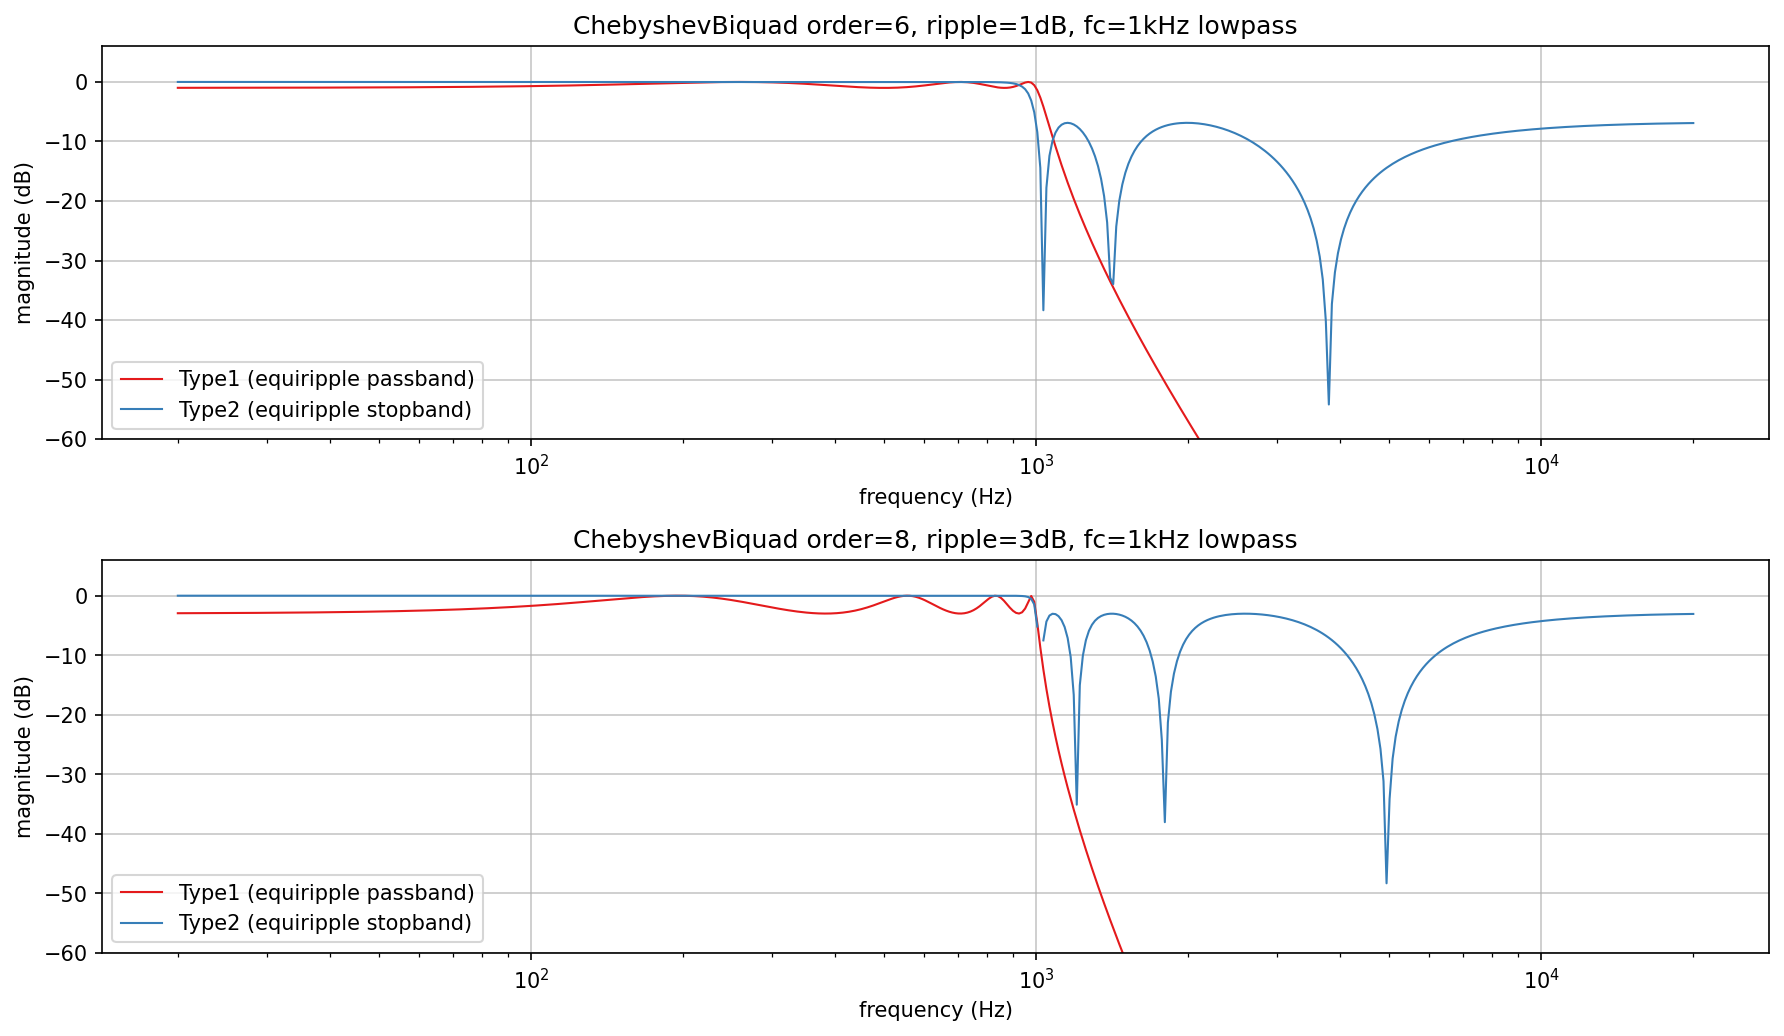
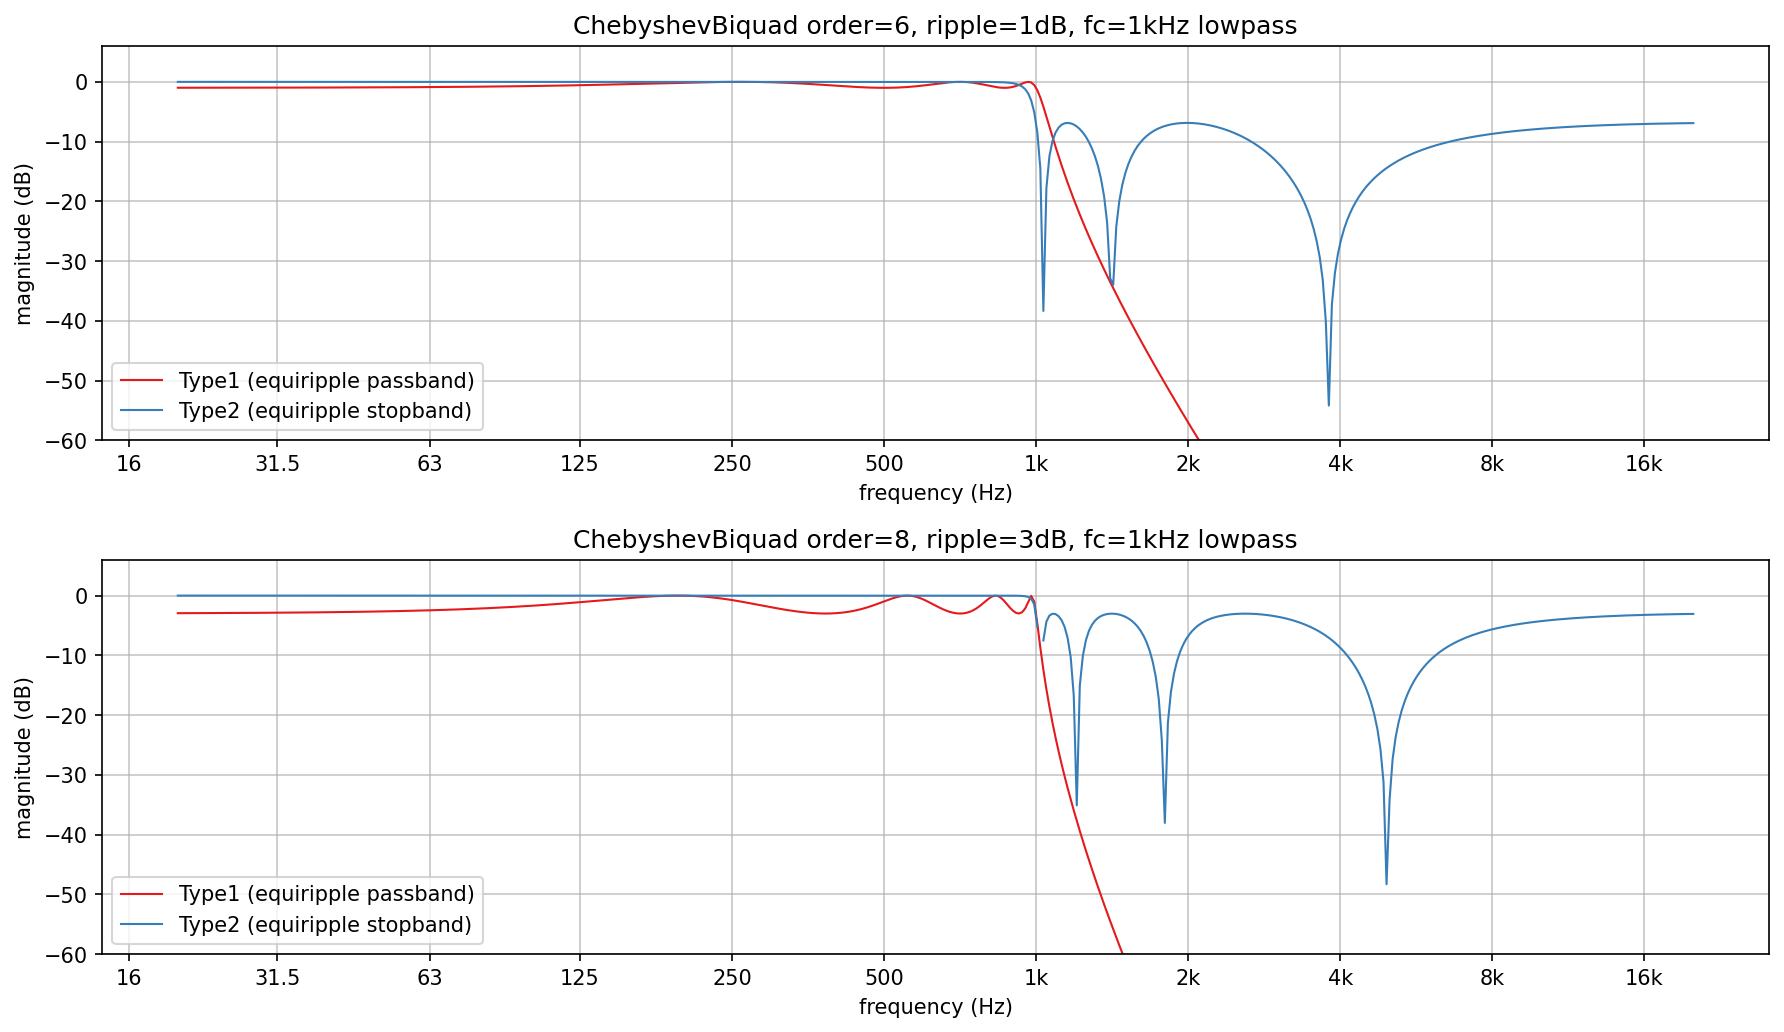
Use octave-spaced Hz labels on the log frequency axes of the filter, modulation and reverb plots

diff --git a/documentation/Filters/PoleMixing/PoleMixingExplore.cpp b/documentation/Filters/PoleMixing/PoleMixingExplore.cpp
@@ -189,7 +189,7 @@ constexpr float kResponseFreqHi = 12000.f;
 
 void writeResponse(std::ofstream& out)
 {
-    out << "@New plot: title=\"magnitude (cutoff=1kHz, resonance=0)\" logx=true\n";
+    out << "@New plot: title=\"magnitude (cutoff=1kHz, resonance=0)\" logx=true hzticks=true\n";
     for (const auto presetName : kRepresentativePresets)
     {
         const auto& cf = AbacDsp::poleMixingList[AbacDsp::findFilterIndex(presetName)].cf;
@@ -202,7 +202,7 @@ void writeResponse(std::ofstream& out)
         }
     }
 
-    out << "@New plot: title=\"phase (cutoff=1kHz, resonance=0)\" logx=true\n";
+    out << "@New plot: title=\"phase (cutoff=1kHz, resonance=0)\" logx=true hzticks=true\n";
     for (const auto presetName : kRepresentativePresets)
     {
         const auto& cf = AbacDsp::poleMixingList[AbacDsp::findFilterIndex(presetName)].cf;
@@ -247,9 +247,9 @@ void writeResonanceSweep(std::ofstream& out, const std::string_view presetName)
 
 void writeResonance(std::ofstream& out)
 {
-    out << "@New plot: title=\"LP4 approaching self-oscillation\" logx=true\n";
+    out << "@New plot: title=\"LP4 approaching self-oscillation\" logx=true hzticks=true\n";
     writeResonanceSweep(out, "LP4");
-    out << "@New plot: title=\"BP4 approaching self-oscillation\" logx=true\n";
+    out << "@New plot: title=\"BP4 approaching self-oscillation\" logx=true hzticks=true\n";
     writeResonanceSweep(out, "BP4");
 
     out << "@New plot: title=\"LP4 self-oscillation (single impulse, zero input after)\"\n#envelope\n";
@@ -267,7 +267,7 @@ void writeResonance(std::ofstream& out)
 
 void writeOverdriveSpectra(std::ofstream& out, const std::string_view title)
 {
-    out << "@New plot: title=\"" << title << " spectrum vs. input level\" logx=true\n";
+    out << "@New plot: title=\"" << title << " spectrum vs. input level\" logx=true hzticks=true\n";
     for (const float amplitude : {0.05f, 0.5f, 2.f})
     {
         AbacDsp::Lp24Smooth filter(kSampleRate);
@@ -289,7 +289,7 @@ void writeOverdriveSpectra(std::ofstream& out, const std::string_view title)
 void writeOverdriveSpectraBandpass(std::ofstream& out, const std::string_view title)
 {
     const auto& cf = AbacDsp::poleMixingList[AbacDsp::findFilterIndex("LP4")].cf;
-    out << "@New plot: title=\"" << title << " spectrum vs. input level\" logx=true\n";
+    out << "@New plot: title=\"" << title << " spectrum vs. input level\" logx=true hzticks=true\n";
     for (const float amplitude : {0.05f, 0.5f, 2.f})
     {
         AbacDsp::Filter1Pole4StageSmooth filter(kSampleRate);
@@ -389,7 +389,7 @@ void writeCutoffAccuracy(std::ofstream& out)
 {
     const float thirdSemitone = std::pow(2.f, 1.f / 36.f); // 36 steps/octave: a musical, not arbitrary, grid
 
-    out << "@New plot: title=\"resonant-peak frequency vs. requested cutoff\" logx=true logy=true\n";
+    out << "@New plot: title=\"resonant-peak frequency vs. requested cutoff\" logx=true hzticks=true logy=true\n";
     writeCutoffAccuracySweep(out, geometricSweep(100.f, 12000.f, thirdSemitone));
 
     out << "@New plot: title=\"resonant-peak frequency vs. requested cutoff (zoom: 1000-12000 Hz)\"\n";
@@ -576,13 +576,13 @@ void writeTopologySelfOscillation(std::ofstream& out)
 
 void writeTopology(std::ofstream& out)
 {
-    out << "@New plot: title=\"LP4 resonance peak: classic vs bandpass-tap feedback\" logx=true\n";
+    out << "@New plot: title=\"LP4 resonance peak: classic vs bandpass-tap feedback\" logx=true hzticks=true\n";
     writeTopologyPairForPreset<AbacDsp::Lp24Smooth>(out, "LP4");
 
     out << "@New plot: title=\"self-oscillation: classic vs bandpass-tap feedback (LP4)\"\n";
     writeTopologySelfOscillation(out);
 
-    out << "@New plot: title=\"LP4/HP4/BP4, classic vs bandpass-tap, near self-oscillation\" logx=true\n";
+    out << "@New plot: title=\"LP4/HP4/BP4, classic vs bandpass-tap, near self-oscillation\" logx=true hzticks=true\n";
     writeTopologyPairForPreset<AbacDsp::Lp24Smooth>(out, "LP4");
     writeTopologyPairForPreset<AbacDsp::Hp24Smooth>(out, "HP4");
     writeTopologyPairForPreset<AbacDsp::Bp24Smooth>(out, "BP4");

diff --git a/documentation/Filters/BandpassImpulses/BpImpulseExplore.cpp b/documentation/Filters/BandpassImpulses/BpImpulseExplore.cpp
@@ -244,14 +244,14 @@ void writeResponse(std::ofstream& out)
 
     AbacDsp::SvfResoBP svf{sampleRate};
     svf.setByDecay(0, f0, decay);
-    out << "@New plot: title=\"SvfResoBP magnitude (f0=1kHz, decay=100ms)\" logx=true\n";
+    out << "@New plot: title=\"SvfResoBP magnitude (f0=1kHz, decay=100ms)\" logx=true hzticks=true\n";
     writeNormalizedSweep(
         out, "SvfResoBP", kSamples, loHz, hiHz, [&svf] { svf.reset(); },
         [&svf](const float in) { return svf.step(in); });
 
     AbacDsp::BiquadResoBP biquad{sampleRate};
     biquad.setByDecay(0, f0, decay);
-    out << "@New plot: title=\"BiquadResoBP magnitude (f0=1kHz, decay=100ms)\" logx=true\n";
+    out << "@New plot: title=\"BiquadResoBP magnitude (f0=1kHz, decay=100ms)\" logx=true hzticks=true\n";
     writeNormalizedSweep(
         out, "BiquadResoBP", kSamples, loHz, hiHz, [&biquad] { biquad.reset(); },
         [&biquad](const float in) { return biquad.step(in); });
@@ -387,14 +387,14 @@ void writeTopology(std::ofstream& out)
 
     AbacDsp::SvfResoBP svf{sampleRate};
     svf.setByDecay(0, f0, decay);
-    out << "@New plot: title=\"SvfResoBP (f0=800 Hz, decay=150 ms)\" logx=true\n";
+    out << "@New plot: title=\"SvfResoBP (f0=800 Hz, decay=150 ms)\" logx=true hzticks=true\n";
     writeNormalizedSweep(
         out, "SvfResoBP", kSamples, loHz, hiHz, [&svf] { svf.reset(); },
         [&svf](const float in) { return svf.step(in); });
 
     AbacDsp::BiquadResoBP biquad{sampleRate};
     biquad.setByDecay(0, f0, decay);
-    out << "@New plot: title=\"BiquadResoBP (f0=800 Hz, decay=150 ms)\" logx=true\n";
+    out << "@New plot: title=\"BiquadResoBP (f0=800 Hz, decay=150 ms)\" logx=true hzticks=true\n";
     writeNormalizedSweep(
         out, "BiquadResoBP", kSamples, loHz, hiHz, [&biquad] { biquad.reset(); },
         [&biquad](const float in) { return biquad.step(in); });
@@ -402,7 +402,7 @@ void writeTopology(std::ofstream& out)
     AbacDsp::BiquadResoBandPassParallel<1, 1> scalarBank{sampleRate};
     scalarBank.setByDecay(0, 0, f0, decay);
     out << "@New plot: title=\"BiquadResoBandPassParallel, element 0 of a 1-element bank "
-           "(f0=800 Hz, decay=150 ms)\" logx=true\n";
+           "(f0=800 Hz, decay=150 ms)\" logx=true hzticks=true\n";
     writeNormalizedSweep(
         out, "BiquadResoBandPassParallel", kSamples, loHz, hiHz, [&scalarBank] { scalarBank.reset(0); },
         [&scalarBank](const float in) { return scalarBank.step(0, in); });
@@ -412,7 +412,7 @@ void writeTopology(std::ofstream& out)
     std::array<float, 1> simdIn{};
     std::array<float, 1> simdOut{};
     out << "@New plot: title=\"BiquadResoBPParallelSIMD, element 0 of a 4-element bank "
-           "(f0=800 Hz, decay=150 ms)\" logx=true\n";
+           "(f0=800 Hz, decay=150 ms)\" logx=true hzticks=true\n";
     writeNormalizedSweep(
         out, "BiquadResoBPParallelSIMD", kSamples, loHz, hiHz, [&simdBank] { simdBank.reset(0); },
         [&simdBank, &simdIn, &simdOut](const float in)

diff --git a/documentation/Filters/Biquads/BiquadsExplore.cpp b/documentation/Filters/Biquads/BiquadsExplore.cpp
@@ -46,7 +46,7 @@ void writeFamilyResponse(std::ofstream& out, const char* name, const float freqH
 void writeFamilyResponses(std::ofstream& out)
 {
     out << "@New plot: title=\"Biquad<type> family: magnitude response (freq=1kHz, Q=0.7071, "
-           "gain=+12dB where used)\" logx=true\n";
+           "gain=+12dB where used)\" logx=true hzticks=true\n";
     const auto sweep = logSweepHz(20.f, 20000.f, 500);
     constexpr float freqHz = 1000.f;
     constexpr float gainDb = 12.f;
@@ -144,7 +144,7 @@ void writePhaseResponse(std::ofstream& out, const char* name, const float design
 void writePhaseResponses(std::ofstream& out)
 {
     out << "@New plot: title=\"Biquad<type> family: phase response (freq=1kHz, Q=0.7071, "
-           "gain=+12dB where used)\" logx=true\n";
+           "gain=+12dB where used)\" logx=true hzticks=true\n";
     const auto sweep = logSweepHz(20.f, 20000.f, 200);
     constexpr float freqHz = 1000.f;
     constexpr float gainDb = 12.f;
@@ -167,7 +167,7 @@ void writeChebyshevComparison(std::ofstream& out)
 
     const auto writeOne = [&](const size_t order, const float fc, const float rippleDb, const char* title)
     {
-        out << "@New plot: title=\"" << title << "\" logx=true\n";
+        out << "@New plot: title=\"" << title << "\" logx=true hzticks=true\n";
         AbacDsp::ChebyshevBiquad type1(kSampleRate);
         type1.computeType1(order, fc, rippleDb, true);
         out << "#Type1 (equiripple passband)\n";
@@ -229,7 +229,7 @@ void writeStabilityLimit(std::ofstream& out, const float xLow, const float xHigh
 void writeStability(std::ofstream& out)
 {
     out << "@New plot: title=\"Tail decay vs. frequency (Q=0.7071, gain=+12dB where used)\" "
-           "logx=true\n";
+           "logx=true hzticks=true\n";
     const auto sweep = logSweepHz(20.f, 20000.f, 500);
     const auto writeVsFreq = [&](const auto typeTag, const char* name)
     {
@@ -293,7 +293,7 @@ constexpr size_t kFftSize = 16384;
 void writePeakSymmetry(std::ofstream& out)
 {
     out << "@New plot: title=\"PeakBiquad: +12dB boost vs. mirrored -12dB cut (freq=1kHz, "
-           "Q=1)\" logx=true\n";
+           "Q=1)\" logx=true hzticks=true\n";
     constexpr float freqHz = 1000.f;
     constexpr float q = 1.f;
     const auto boost = measurePeakBiquadSpectrumDb(freqHz, 12.f, q);

diff --git a/documentation/Plot/PyConPlot.py b/documentation/Plot/PyConPlot.py
@@ -151,7 +151,7 @@ def parse_data_file(filename: str) -> List[Tuple[Dict[str, List[Dict[str, List[f
         plots.append((current_plot_data, current_plot_options))
     return plots if plots else [({}, {})]
 
-OCTAVE_CENTERS_HZ = [16.0, 31.5, 63.0, 125.0, 250.0, 500.0, 1000.0, 2000.0, 4000.0, 8000.0, 16000.0]
+OCTAVE_CENTERS_HZ = [0.125, 0.25, 0.5, 1.0, 2.0, 4.0, 8.0, 16.0, 31.5, 63.0, 125.0, 250.0, 500.0, 1000.0, 2000.0, 4000.0, 8000.0, 16000.0]
 
 
 def format_hz(value: float, _pos: Optional[int] = None) -> str:
@@ -329,6 +329,7 @@ Plot-specific options (use in @New plot lines):
     parser.add_argument('--maxy', type=float, help='Maximum y-axis value (default: auto)')
     parser.add_argument('--logx', action='store_true', help='Use logarithmic scale for x-axis')
     parser.add_argument('--logy', action='store_true', help='Use logarithmic scale for y-axis')
+    parser.add_argument('--hzticks', action='store_true', help='With --logx: label the x-axis at octave-spaced ISO centres as plain Hz')
     parser.add_argument('--symlogy', action='store_true', help='Use symmetric-log scale for y-axis: linear near zero, logarithmic beyond --linthreshy. For data that crosses zero but spans orders of magnitude (ignored if --logy is also set)')
     parser.add_argument('--linthreshy', type=float, default=1.0, help='Linear region half-width around zero for --symlogy (default: 1.0)')
     parser.add_argument('--aspect', default='auto', choices=['auto', 'equal'], help="Axes aspect ratio: 'equal' keeps x/y units the same size, e.g. for orbit/phase-plane plots (default: 'auto')")

diff --git a/documentation/Filters/OnePoleFilter/OnePoleExplore.cpp b/documentation/Filters/OnePoleFilter/OnePoleExplore.cpp
@@ -45,7 +45,7 @@ void writeResponse(std::ofstream& out, const char* name, const float cutoffHz, c
 void writeResponses(std::ofstream& out)
 {
     out << "@New plot: title=\"OnePoleFilter: magnitude response, all four characteristics "
-           "(cutoff=1kHz)\" logx=true\n";
+           "(cutoff=1kHz)\" logx=true hzticks=true\n";
     const auto sweep = logSweepHz(20.f, 24000.f, 500);
     constexpr float cutoffHz = 1000.f;
     writeResponse<AbacDsp::OnePoleFilterCharacteristic::LowPass>(out, "LowPass", cutoffHz, sweep);
@@ -156,7 +156,7 @@ void writeAllPassPhase(std::ofstream& out)
     constexpr float cutoffHz = 1000.f;
 
     out << "@New plot: title=\"OnePoleFilter AllPass: magnitude stays flat (cutoff=1kHz)\" "
-           "logx=true\n#magnitude\n";
+           "logx=true hzticks=true\n#magnitude\n";
     AbacDsp::OnePoleFilter<AbacDsp::OnePoleFilterCharacteristic::AllPass> filter(kSampleRate, cutoffHz);
     for (const float hz : sweep)
     {
@@ -164,7 +164,7 @@ void writeAllPassPhase(std::ofstream& out)
     }
 
     out << "@New plot: title=\"OnePoleFilter AllPass: phase reaches 90 degrees at cutoff\" "
-           "logx=true\n#phase\n";
+           "logx=true hzticks=true\n#phase\n";
     for (const float hz : sweep)
     {
         out << hz << " " << measureAllPassPhaseDeg(hz, cutoffHz) << "\n";

diff --git a/documentation/Modulation/ModulationExplore.cpp b/documentation/Modulation/ModulationExplore.cpp
@@ -112,10 +112,10 @@ void writeSpectra(std::ofstream& out)
 {
     constexpr auto numSamples = static_cast<size_t>(10.f * kSampleRate);
 
-    out << "@New plot: title=\"Wow spectrum (rate=2Hz, depth=1, drift=0)\" logx=true\n#Wow\n";
+    out << "@New plot: title=\"Wow spectrum (rate=2Hz, depth=1, drift=0)\" logx=true hzticks=true\n#Wow\n";
     writeDecimatedSpectrum(out, renderWow(2.f, 1.f, 0.f, numSamples));
 
-    out << "@New plot: title=\"Flutter spectrum (rate=8Hz, depth=50)\" logx=true\n#Flutter\n";
+    out << "@New plot: title=\"Flutter spectrum (rate=8Hz, depth=50)\" logx=true hzticks=true\n#Flutter\n";
     writeDecimatedSpectrum(out, renderFlutter(8.f, 50.f, numSamples));
 }
 
@@ -180,7 +180,7 @@ void writeTremoloRingMod(std::ofstream& out)
         }
     }
 
-    out << "@New plot: title=\"RingModulator sidebands (1000Hz probe tone)\" logx=true\n";
+    out << "@New plot: title=\"RingModulator sidebands (1000Hz probe tone)\" logx=true hzticks=true\n";
     constexpr size_t kRingFftSize = 16384;
     constexpr float kProbeHz = 1000.f;
     for (const float carrierHz : {300.f, 1500.f})

diff --git a/documentation/Filters/PinkFilter/PinkFilterExplore.cpp b/documentation/Filters/PinkFilter/PinkFilterExplore.cpp
@@ -75,7 +75,7 @@ template <bool FastPink>
 void writeSpectrum(std::ofstream& out)
 {
     out << "@New plot: title=\"PinkFilter measured PSD vs. ideal -3dB/octave (fitted at 1kHz)\" "
-           "logx=true\n";
+           "logx=true hzticks=true\n";
     const auto fastDb = measurePinkPsdDb<true>();
     const auto accurateDb = measurePinkPsdDb<false>();
     constexpr float f0 = 1000.f;
@@ -109,7 +109,7 @@ void writeAccuracy(std::ofstream& out)
 
     const auto writeError = [&](const std::vector<float>& db, const char* title, const char* name)
     {
-        out << "@New plot: title=\"" << title << "\" logx=true\n#" << name << "\n";
+        out << "@New plot: title=\"" << title << "\" logx=true hzticks=true\n#" << name << "\n";
         const float anchorDb = dbAtHz(db, f0);
         for (size_t bin = 1; bin < db.size(); ++bin)
         {

diff --git a/documentation/Plot/README.md b/documentation/Plot/README.md
@@ -96,7 +96,7 @@ titles or axis limits from otherwise-shared CLI defaults:
 | `title` | string | Subplot title |
 | `labelx`, `labely` | string | Axis labels |
 | `logx`, `logy` | bool | Logarithmic axis scale |
-| `hzticks` | bool | With `logx`: label the x-axis at octave-spaced ISO centres (63, 125, ... 1k, 2k, ...) as plain Hz, one grid cell per octave |
+| `hzticks` | bool | With `logx`: label the x-axis at octave-spaced ISO centres (0.125 Hz up to 16k) as plain Hz, one grid cell per octave |
 | `ystep` | number | Y-axis major tick spacing, e.g. `24` so dB/octave slopes line up with the grid |
 | `normalize` | bool | Rescale this subplot's data into `[0, 1]` |
 | `miny`, `maxy` | number | Y-axis limits |
@@ -124,6 +124,7 @@ Booleans accept `true`/`false`/`1`/`0`/`yes`/`no` (case-insensitive).
 | `--linewidth` | `1.0` | Line width |
 | `--miny`, `--maxy` | auto | Shared y-axis limits, applied to every subplot unless overridden per-plot |
 | `--logx`, `--logy` | off | Logarithmic axis scale |
+| `--hzticks` | off | With `--logx`: octave-spaced Hz labels, same as the per-plot `hzticks` key |
 | `--aspect` | `auto` | `equal` keeps x/y units the same size on screen - use for orbit/phase-plane style plots where a circle should look circular, not stretched |
 | `--grid` | off | Enable grid (same as `--grid-major`) |
 | `--grid-major` | on | Major grid lines |
